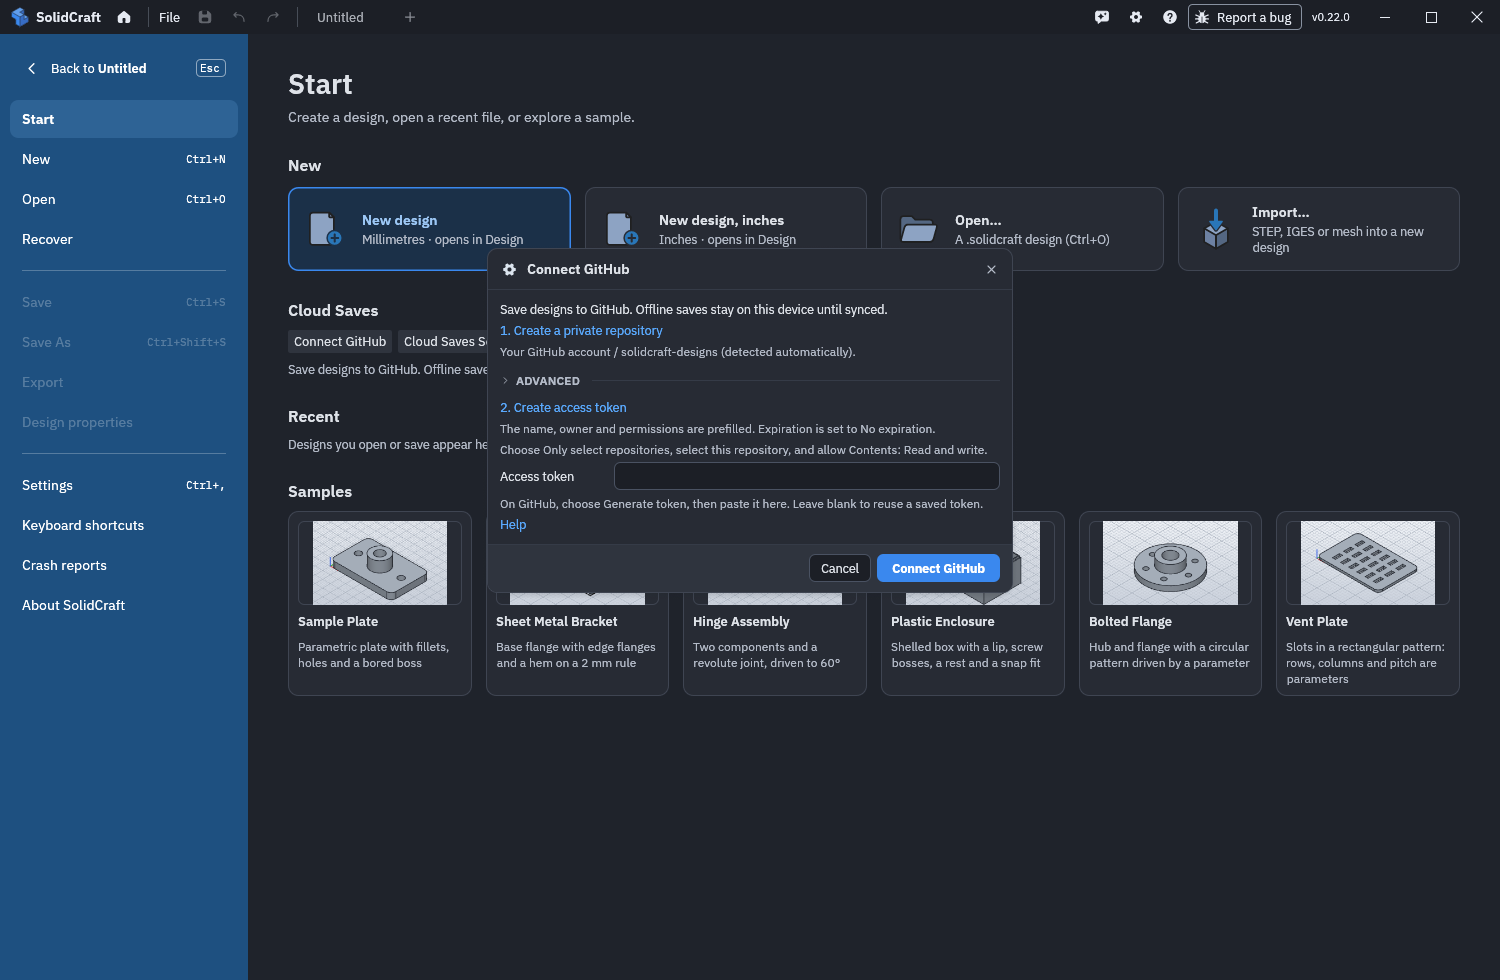
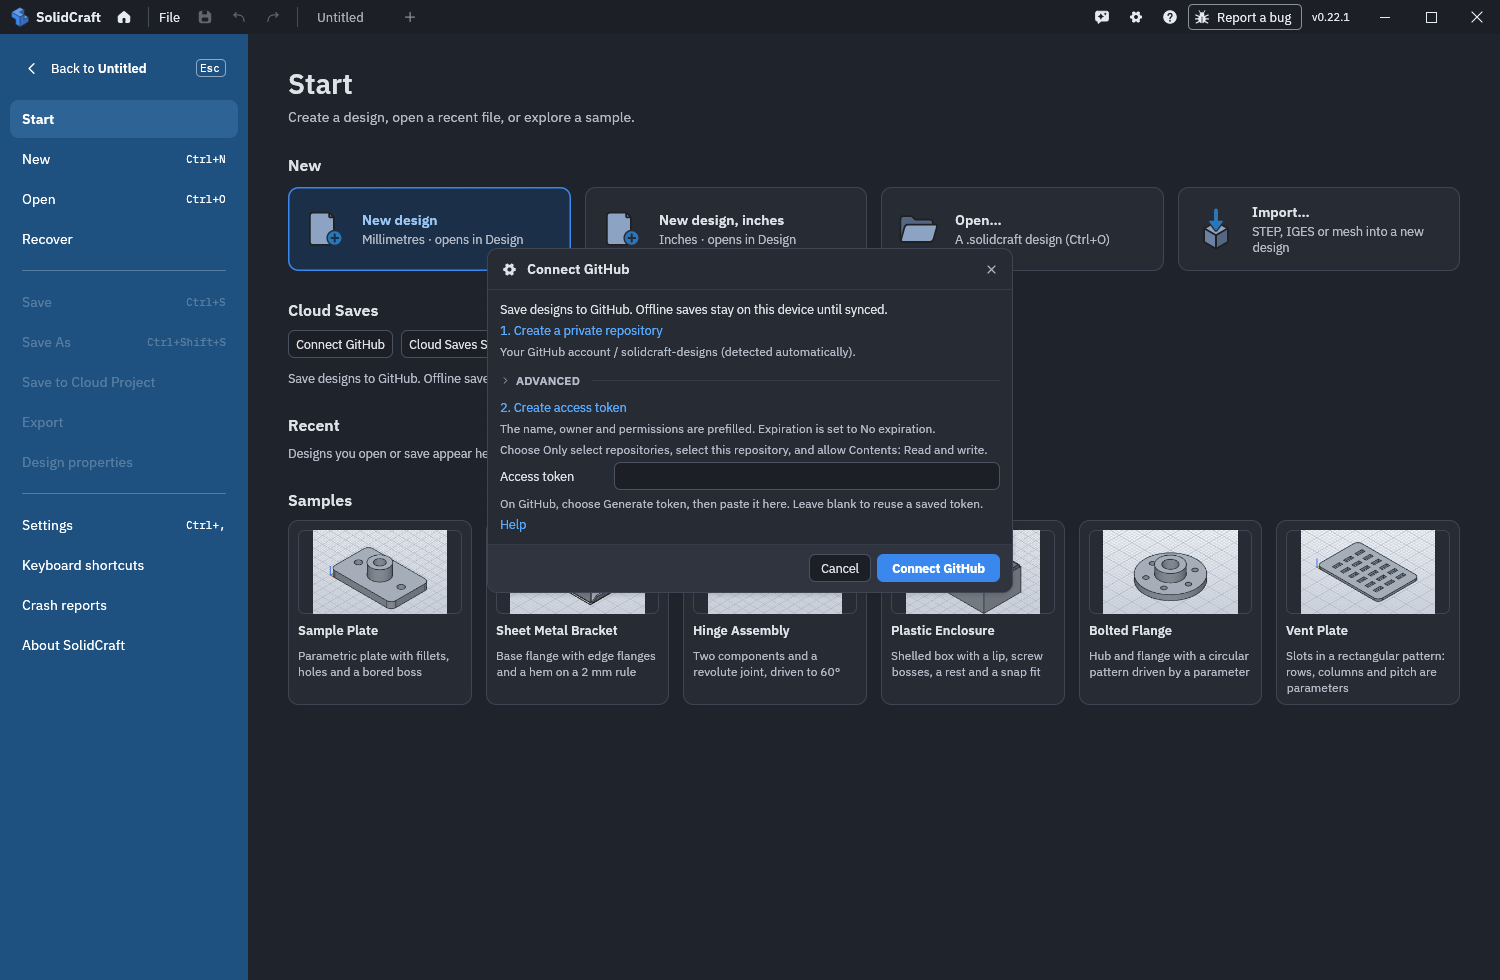
feat(cloud): save local designs through File and Start actions

diff --git a/crates/ui-egui/src/home.rs b/crates/ui-egui/src/home.rs
@@ -614,6 +614,7 @@ enum FileAction {
     Import,
     Save,
     SaveAs,
+    SaveCloud,
     Export(&'static str),
     Mesh,
     ViewDxf,
@@ -753,6 +754,7 @@ fn navigation(app: &SolveApp, ui: &mut egui::Ui, action: &mut Option<FileAction>
         ("home:recover", recover.as_str(), String::new(), Some(Section::Recovery), true, FileAction::Section(Section::Recovery)),
         ("home:save", app.tr("ui.save"), format!("{primary}S"), None, design, FileAction::Save),
         ("home:save_as", app.tr("ui.save_as"), format!("{primary}{shift}S"), None, design, FileAction::SaveAs),
+        ("home:save_cloud", app.tr("cmd.cloud.save"), String::new(), None, design && !app.session.cloud_save_pending(), FileAction::SaveCloud),
         ("home:export", app.tr("home.export"), String::new(), Some(Section::Export), design, FileAction::Section(Section::Export)),
         ("home:properties", app.tr("home.properties"), String::new(), None, design, FileAction::Properties),
         ("home:settings", app.tr("home.settings"), format!("{primary},"), None, true, FileAction::Settings),
@@ -760,8 +762,11 @@ fn navigation(app: &SolveApp, ui: &mut egui::Ui, action: &mut Option<FileAction>
         ("home:crashes", app.tr("home.crashes"), String::new(), None, true, FileAction::Crashes),
         ("home:about", app.tr_label("About SolidCraft"), String::new(), None, true, FileAction::About),
     ];
-    for (index, (id, label, key, section, enabled, picked)) in nav.into_iter().enumerate() {
-        if index == 4 || index == 8 {
+    for (id, label, key, section, enabled, picked) in nav {
+        if id == "home:save_cloud" && app.services.cloud_host.is_none() {
+            continue;
+        }
+        if matches!(id, "home:save" | "home:settings") {
             FileView::separator(ui);
         }
         let response = FileView::nav_row(ui, id, label, &key, section == Some(app.home.section), enabled && !busy);
@@ -1103,6 +1108,10 @@ fn dispatch(app: &mut SolveApp, ctx: &egui::Context, action: FileAction) {
         FileAction::SaveAs => {
             app.home.open = false;
             crate::toolbar::save_as(app);
+        }
+        FileAction::SaveCloud => {
+            app.home.open = false;
+            app.start("cloud.save");
         }
         FileAction::Export(ext) => {
             app.home.open = false;

diff --git a/crates/ui-egui/src/cloud_browser/tests.rs b/crates/ui-egui/src/cloud_browser/tests.rs
@@ -121,6 +121,52 @@ fn home_controls_have_consistent_heights_and_left_alignment() {
 }
 
 #[test]
+fn file_actions_copy_a_local_design_to_cloud_without_changing_its_source() {
+    for navigation in [false, true] {
+        let (mut h, worker, _) = setup(true);
+        h.app.run("solid.box", json!({"length":8,"width":6,"height":4})).unwrap();
+        let path = h.dir.join("Local bracket.solidcraft");
+        h.app.run("file.save_as", json!({"path":path})).unwrap();
+        h.settle();
+        let original = std::fs::read(&path).unwrap();
+        if navigation {
+            h.app.home.show(0);
+            h.frames(2);
+            h.step(&json!({"click":{"handle":"home:save_cloud"}})).unwrap();
+        } else {
+            h.app.home.open = false;
+            h.frames(2);
+            h.step(&json!({"click":{"handle":"appbar:folder"}})).unwrap();
+            h.step(&json!({"widget":"Save to Cloud Project"})).unwrap();
+        }
+        h.frames(2);
+        assert!(h.app.cloud.browser.picker.is_some());
+        assert_eq!(h.app.session.path.as_deref(), path.to_str());
+        let picker = h.app.cloud.browser.picker.as_mut().unwrap();
+        picker.project = "Robot".into();
+        picker.name = "local-bracket".into();
+        h.frame();
+        h.step(&json!({"click":{"handle":"dialog:ok"}})).unwrap();
+        let (job, save) = {
+            let jobs = worker.jobs.lock().unwrap();
+            let (job, Operation::Save { save, .. }) = jobs.last().unwrap() else { panic!("save required") };
+            (job.clone(), save.record.clone())
+        };
+        assert_eq!(save.destination.file, "parts/local-bracket");
+        job.update(|s| {
+            s.saved_locally = true;
+            s.phase = Phase::SavedLocally;
+            s.destination = Some(save.destination.clone());
+            s.revision = Some(save.id.clone());
+        })
+        .unwrap();
+        h.frames(2);
+        assert_eq!(h.app.session.cloud_binding().unwrap().destination, save.destination);
+        assert_eq!(std::fs::read(&path).unwrap(), original);
+    }
+}
+
+#[test]
 fn home_browses_independent_repositories_and_keeps_entries_when_refresh_fails() {
     for dark in [false, true] {
         let (mut h, worker, destination) = setup(dark);

diff --git a/crates/ui-egui/src/toolbar.rs b/crates/ui-egui/src/toolbar.rs
@@ -695,6 +695,7 @@ impl FileAction {
             Self::Redo => !app.session.redo.is_empty(),
             Self::ClearRecent => !app.home.recent.is_empty(),
             Self::AgentChat => crate::agent_chat::app_bar_button_shown(app),
+            Self::Command("cloud.save") => app.services.cloud_host.is_some() && !app.session.cloud_save_pending(),
             _ => true,
         };
         !app.file_picker_busy() && !app.file_load.busy() && !behind_report && (!needs_design || design_shown(app)) && available
@@ -813,6 +814,12 @@ fn file_menu(app: &mut SolveApp, ctx: &egui::Context) {
                 let save_as_key = crate::keymap::effective(app, "file.save_as").unwrap_or_default();
                 if item_if(ui, &format!("{}…", app.tr("ui.save_as")), &save_as_key, "save", shown) {
                     FileAction::SaveAs.run(app);
+                    close = true;
+                }
+                if app.services.cloud_host.is_some()
+                    && item_if(ui, app.tr("cmd.cloud.save"), "", "save", FileAction::Command("cloud.save").enabled(app))
+                {
+                    FileAction::Command("cloud.save").run(app);
                     close = true;
                 }
                 if item(ui, "Save As JSON…", "", "save") {

diff --git a/apps/solidcraft/src/native_menu.rs b/apps/solidcraft/src/native_menu.rs
@@ -74,6 +74,9 @@ impl NativeMenu {
             Some(Accelerator::new(Modifiers::META | Modifiers::SHIFT, Code::KeyS)),
         )?;
         add(&file, app.tr_label("Save As JSON\u{2026}"), FileAction::SaveJson, None)?;
+        if app.services.cloud_host.is_some() {
+            add(&file, app.tr("cmd.cloud.save"), FileAction::Command("cloud.save"), None)?;
+        }
         file.append(&PredefinedMenuItem::separator())?;
         for (label, action) in [
             ("Export STL\u{2026}", FileAction::ExportMesh("stl")),

diff --git a/docs/book/src/guide/cloud-saves.md b/docs/book/src/guide/cloud-saves.md
@@ -41,6 +41,16 @@ trusted browser profile and device. Desktop reuses the same token for Git over H
 
 ## Save and synchronize
 
+### Save a local design to cloud
+
+Open your local design, then choose **File → Save to Cloud Project**. The same
+action is available in Start's navigation. Choose the repository, project and
+design name, then save. SolidCraft leaves the original local file unchanged and
+uses the cloud destination for subsequent saves. Use **Save As** to save a native
+file again.
+
+### Save in a cloud project
+
 1. On **Start → Cloud Saves**, choose **Save to Cloud Project**. For a new design,
    normal **Save** opens the same picker when a default cloud repository is connected.
 2. Choose a repository, enter a project folder (or choose an existing one), and name
